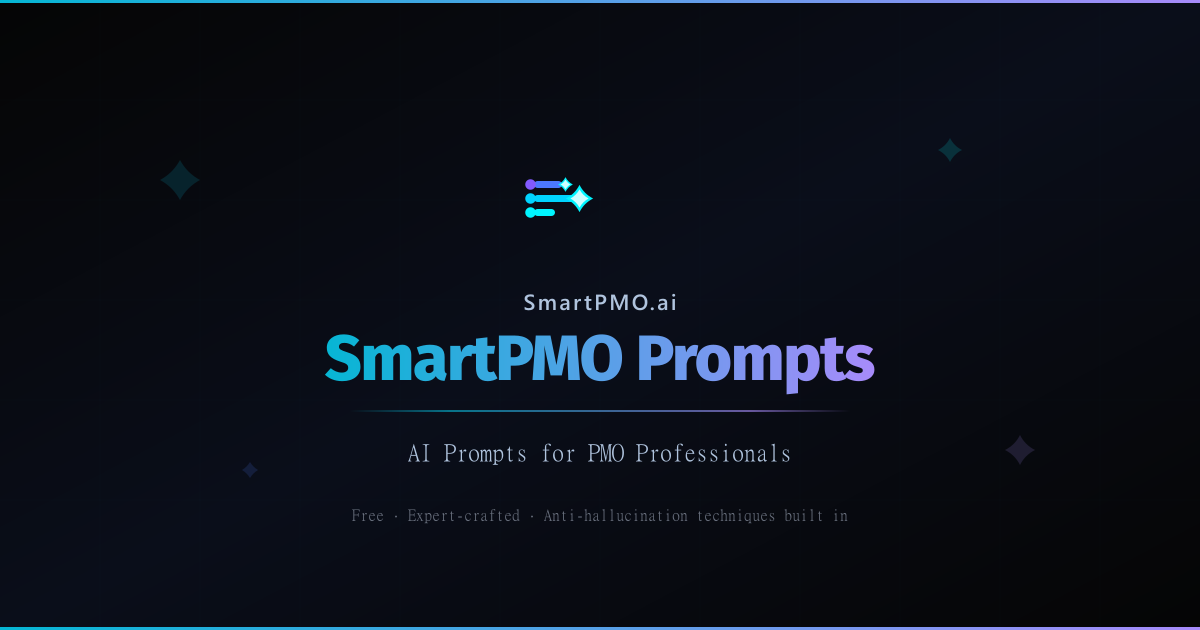
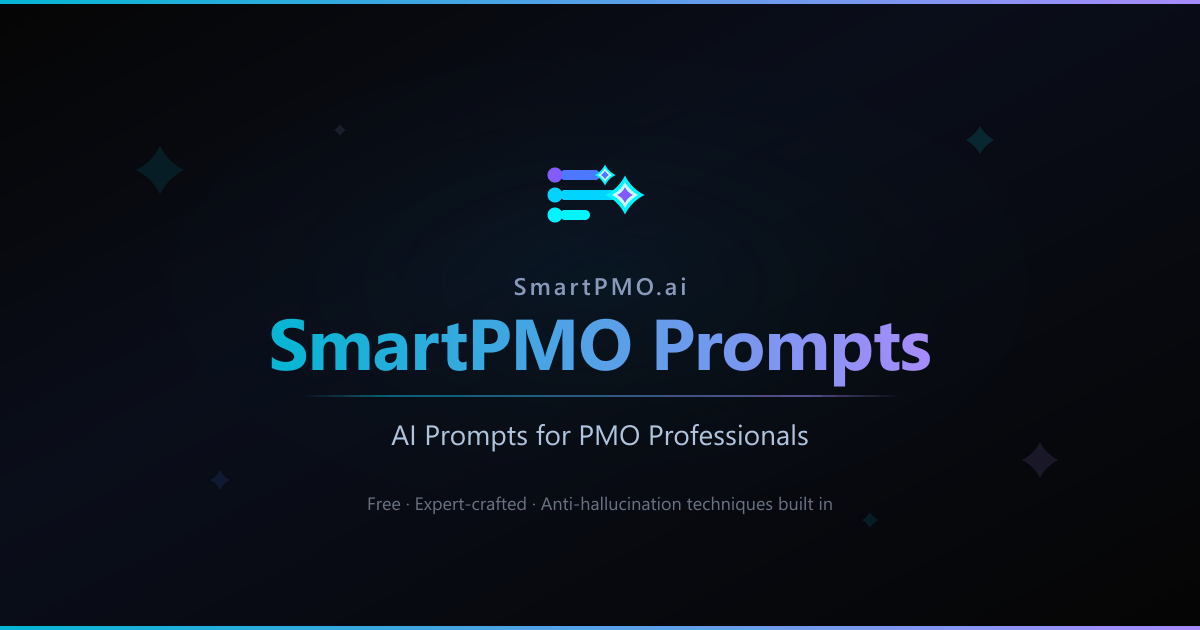
deploy

diff --git a/prompts/generate-og.js b/prompts/generate-og.js
@@ -1,0 +1,116 @@
+/**
+ * Generate OG social card image for SmartPMO Prompts
+ * Uses sharp to render SVG → PNG at 1200×630
+ * Run: node website/prompts/generate-og.js
+ */
+const sharp = require('sharp');
+const path = require('path');
+
+const WIDTH = 1200;
+const HEIGHT = 630;
+
+// Use system fonts available on Windows
+const FONT = 'Segoe UI, Arial, sans-serif';
+
+const svg = `<svg xmlns="http://www.w3.org/2000/svg" width="${WIDTH}" height="${HEIGHT}" viewBox="0 0 ${WIDTH} ${HEIGHT}">
+  <defs>
+    <linearGradient id="bgGrad" x1="0" y1="0" x2="1" y2="1">
+      <stop offset="0%" stop-color="#050505"/>
+      <stop offset="40%" stop-color="#0a0e1a"/>
+      <stop offset="100%" stop-color="#050505"/>
+    </linearGradient>
+    <linearGradient id="titleGrad" x1="0" y1="0" x2="1" y2="0">
+      <stop offset="0%" stop-color="#06B6D4"/>
+      <stop offset="100%" stop-color="#a78bfa"/>
+    </linearGradient>
+    <linearGradient id="accentLine" x1="0" y1="0" x2="1" y2="0">
+      <stop offset="0%" stop-color="#06B6D4" stop-opacity="0"/>
+      <stop offset="15%" stop-color="#06B6D4" stop-opacity="0.5"/>
+      <stop offset="85%" stop-color="#a78bfa" stop-opacity="0.5"/>
+      <stop offset="100%" stop-color="#a78bfa" stop-opacity="0"/>
+    </linearGradient>
+    <radialGradient id="glow" cx="50%" cy="45%" r="45%">
+      <stop offset="0%" stop-color="#06B6D4" stop-opacity="0.06"/>
+      <stop offset="100%" stop-color="#050505" stop-opacity="0"/>
+    </radialGradient>
+  </defs>
+
+  <!-- Background -->
+  <rect width="${WIDTH}" height="${HEIGHT}" fill="url(#bgGrad)"/>
+  <rect width="${WIDTH}" height="${HEIGHT}" fill="url(#glow)"/>
+
+  <!-- Top/bottom accent bars -->
+  <rect x="0" y="0" width="${WIDTH}" height="4" fill="url(#titleGrad)"/>
+  <rect x="0" y="${HEIGHT - 4}" width="${WIDTH}" height="4" fill="url(#titleGrad)"/>
+
+  <!-- Diamond decorations (subtle) -->
+  <g opacity="0.12">
+    <path d="M0 -24 Q8 -8 24 0 Q8 8 0 24 Q-8 8 -24 0 Q-8 -8 0 -24 Z" fill="#06B6D4" transform="translate(160, 170)"/>
+    <path d="M0 -18 Q6 -6 18 0 Q6 6 0 18 Q-6 6 -18 0 Q-6 -6 0 -18 Z" fill="#a78bfa" transform="translate(1040, 460)"/>
+    <path d="M0 -14 Q5 -5 14 0 Q5 5 0 14 Q-5 5 -14 0 Q-5 -5 0 -14 Z" fill="#00F5FF" transform="translate(980, 140)"/>
+    <path d="M0 -10 Q3 -3 10 0 Q3 3 0 10 Q-3 3 -10 0 Q-3 -3 0 -10 Z" fill="#4C78FF" transform="translate(220, 480)"/>
+    <path d="M0 -8 Q3 -3 8 0 Q3 3 0 8 Q-3 3 -8 0 Q-3 -3 0 -8 Z" fill="#06B6D4" transform="translate(870, 520)"/>
+    <path d="M0 -6 Q2 -2 6 0 Q2 2 0 6 Q-2 2 -6 0 Q-2 -2 0 -6 Z" fill="#a78bfa" transform="translate(340, 130)"/>
+  </g>
+
+  <!-- Logo (scaled from site header SVG) centered -->
+  <g transform="translate(540, 140) scale(5)">
+    <!-- Three lines -->
+    <rect x="4" y="6" width="8" height="2" rx="1" fill="#4C78FF"/>
+    <rect x="4" y="10" width="12" height="2" rx="1" fill="#00D4FF"/>
+    <rect x="4" y="14" width="6" height="2" rx="1" fill="#00F5FF"/>
+    <!-- Three dots -->
+    <circle cx="3" cy="7" r="1.5" fill="#825AFF"/>
+    <circle cx="3" cy="11" r="1.5" fill="#00D4FF"/>
+    <circle cx="3" cy="15" r="1.5" fill="#00F5FF"/>
+    <!-- Sparkle small -->
+    <g transform="translate(13,7) scale(0.7)">
+      <path d="M0 -3 Q1 -1 3 0 Q1 1 0 3 Q-1 1 -3 0 Q-1 -1 0 -3 Z" fill="#00F5FF"/>
+      <path d="M0 -2 Q0.7 -0.7 2 0 Q0.7 0.7 0 2 Q-0.7 0.7 -2 0 Q-0.7 -0.7 0 -2 Z" fill="#ffffff" opacity="0.8"/>
+      <path d="M0 -1.2 Q0.4 -0.4 1.2 0 Q0.4 0.4 0 1.2 Q-0.4 0.4 -1.2 0 Q-0.4 -0.4 0 -1.2 Z" fill="#4C78FF"/>
+    </g>
+    <!-- Sparkle large -->
+    <g transform="translate(17,11) scale(1.3)">
+      <path d="M0 -3 Q1 -1 3 0 Q1 1 0 3 Q-1 1 -3 0 Q-1 -1 0 -3 Z" fill="#00F5FF"/>
+      <path d="M0 -2 Q0.7 -0.7 2 0 Q0.7 0.7 0 2 Q-0.7 0.7 -2 0 Q-0.7 -0.7 0 -2 Z" fill="#ffffff" opacity="0.8"/>
+      <path d="M0 -1.2 Q0.4 -0.4 1.2 0 Q0.4 0.4 0 1.2 Q-0.4 0.4 -1.2 0 Q-0.4 -0.4 0 -1.2 Z" fill="#825AFF"/>
+    </g>
+  </g>
+
+  <!-- "SmartPMO.ai" small text above title -->
+  <text x="600" y="295" text-anchor="middle"
+        font-family="${FONT}" font-size="24" font-weight="600"
+        fill="#8899bb" letter-spacing="3">SmartPMO.ai</text>
+
+  <!-- Main title with gradient -->
+  <text x="600" y="370" text-anchor="middle"
+        font-family="${FONT}" font-size="72" font-weight="700"
+        fill="url(#titleGrad)" letter-spacing="-1">SmartPMO Prompts</text>
+
+  <!-- Divider line -->
+  <rect x="300" y="395" width="600" height="2" rx="1" fill="url(#accentLine)"/>
+
+  <!-- Subtitle -->
+  <text x="600" y="445" text-anchor="middle"
+        font-family="${FONT}" font-size="28" font-weight="400"
+        fill="#b0c4de">AI Prompts for PMO Professionals</text>
+
+  <!-- Bottom tagline -->
+  <text x="600" y="510" text-anchor="middle"
+        font-family="${FONT}" font-size="18" font-weight="400"
+        fill="#6b7280">Free · Expert-crafted · Anti-hallucination techniques built in</text>
+</svg>`;
+
+async function generate() {
+  const outPath = path.join(__dirname, 'og-smartpmo-prompts.png');
+
+  await sharp(Buffer.from(svg))
+    .png({ quality: 100, compressionLevel: 6 })
+    .toFile(outPath);
+
+  const info = await sharp(outPath).metadata();
+  console.log(`Generated: ${outPath}`);
+  console.log(`Size: ${info.width}x${info.height}, ${(require('fs').statSync(outPath).size / 1024).toFixed(1)} KB`);
+}
+
+generate().catch(err => { console.error(err); process.exit(1); });

diff --git a/prompts/index.html b/prompts/index.html
@@ -4,13 +4,13 @@
   <meta charset="UTF-8">
   <meta name="viewport" content="width=device-width, initial-scale=1.0">
   <title>SmartPMO Prompts — AI Prompts for PMO Professionals | SmartPMO.ai</title>
-  <meta name="description" content="Expert-crafted, hallucination-proof AI prompts for PMO professionals. 20+ ready-to-use prompts across all PMBOK Knowledge Areas. Free, no login required.">
+  <meta name="description" content="Free, expert-crafted AI prompts for PMO professionals. Anti-hallucination techniques built in. 20+ ready-to-use prompts across all PMBOK Knowledge Areas. No login required.">
   <meta name="keywords" content="PMO prompts, AI prompts for project management, PMBOK, project charter generator, risk register, WBS generator, stakeholder management, agile retrospective">
 
   <!-- Open Graph -->
   <meta property="og:type" content="website">
   <meta property="og:title" content="SmartPMO Prompts — AI Prompts for PMO Professionals">
-  <meta property="og:description" content="Expert-crafted, hallucination-proof AI prompts for PMO professionals. Ready to use in any AI tool.">
+  <meta property="og:description" content="Free, expert-crafted AI prompts for PMO professionals. Anti-hallucination techniques built in. Works with any AI tool.">
   <meta property="og:url" content="https://smartpmo.ai/prompts">
   <meta property="og:site_name" content="SmartPMO.ai">
   <meta property="og:image" content="https://smartpmo.ai/prompts/og-smartpmo-prompts.png">
@@ -20,7 +20,7 @@
   <!-- Twitter Card -->
   <meta name="twitter:card" content="summary_large_image">
   <meta name="twitter:title" content="SmartPMO Prompts — AI Prompts for PMO Professionals">
-  <meta name="twitter:description" content="Expert-crafted, hallucination-proof AI prompts for PMO professionals. Ready to use in any AI tool.">
+  <meta name="twitter:description" content="Free, expert-crafted AI prompts for PMO professionals. Anti-hallucination techniques built in. Works with any AI tool.">
   <meta name="twitter:image" content="https://smartpmo.ai/prompts/og-smartpmo-prompts.png">
 
   <!-- Canonical -->

diff --git a/index.html b/index.html
@@ -117,13 +117,13 @@
   <link rel="preconnect" href="https://fonts.gstatic.com" crossorigin>
   <link href="https://fonts.googleapis.com/css2?family=Inter:wght@400;600;700;800;900&family=Spectral:wght@400;600;700&display=swap" rel="stylesheet">
 
-  <link rel="stylesheet" href="styles-core.css?v=8bebfeb">
-  <link rel="stylesheet" href="styles-v2.css?v=8bebfeb">
-  <link rel="stylesheet" href="hero.css?v=8bebfeb">
-  <link rel="stylesheet" href="header-styles.css?v=8bebfeb">
-  <link rel="stylesheet" href="section-cards.css?v=8bebfeb">
-  <link rel="stylesheet" href="section-votes.css?v=8bebfeb">
-  <link rel="stylesheet" href="mobile-fixes.css?v=8bebfeb">
+  <link rel="stylesheet" href="styles-core.css?v=d7ecf55">
+  <link rel="stylesheet" href="styles-v2.css?v=d7ecf55">
+  <link rel="stylesheet" href="hero.css?v=d7ecf55">
+  <link rel="stylesheet" href="header-styles.css?v=d7ecf55">
+  <link rel="stylesheet" href="section-cards.css?v=d7ecf55">
+  <link rel="stylesheet" href="section-votes.css?v=d7ecf55">
+  <link rel="stylesheet" href="mobile-fixes.css?v=d7ecf55">
   <script src="https://unpkg.com/lucide@0.575.0/dist/umd/lucide.min.js" integrity="sha384-GzE8qT1LzDfRNjtvLN/dXDLPlJOB3BBom3Twb9/RwHkXCgNl6OU1pBxM9397HWGU" crossorigin="anonymous"></script>
   
   <style>
@@ -1593,6 +1593,7 @@ Discover more AI insights for PMO: ${SMARTPMO_URL}`;
 
 </body>
 </html>
+
 
 
 
